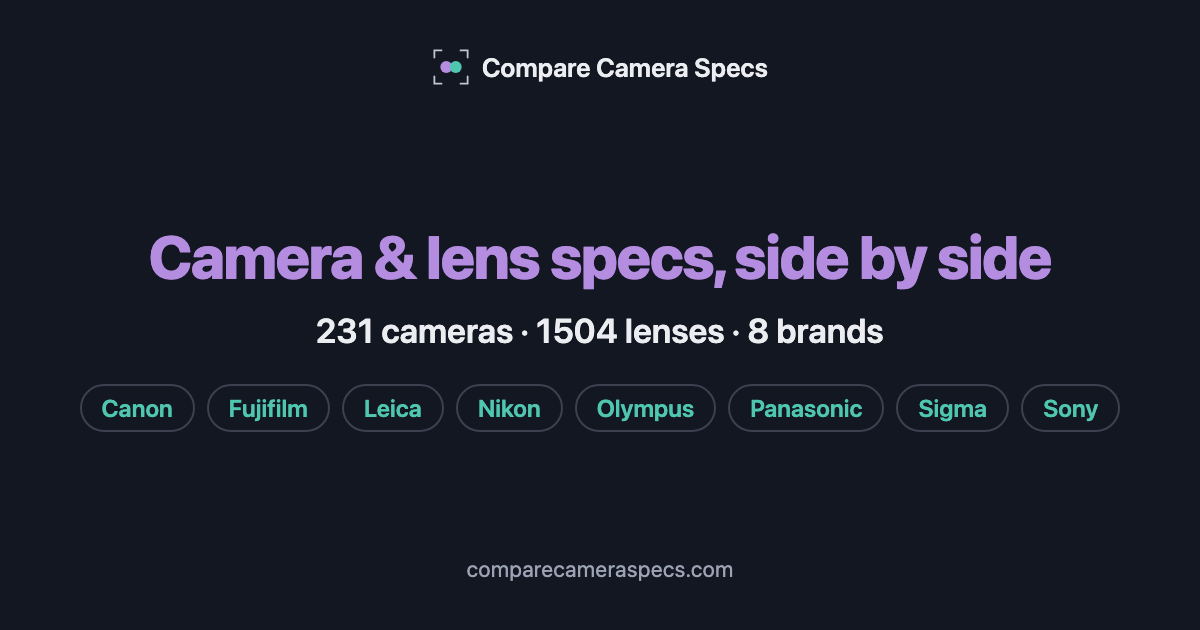
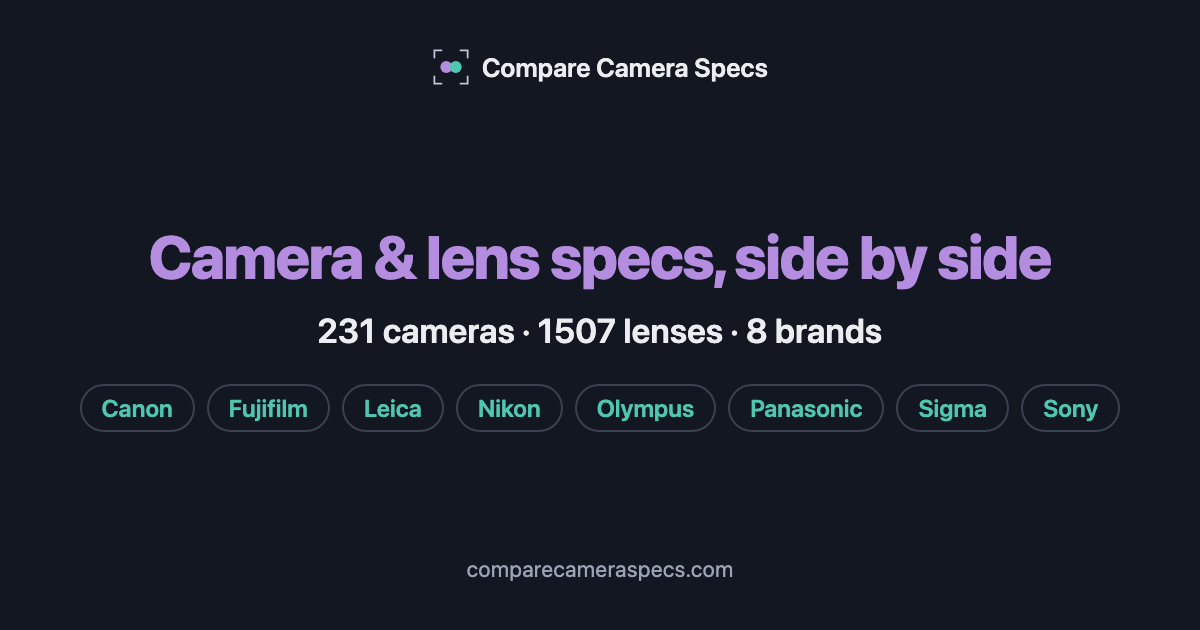
Canon: add 3 TTArtisan RF lenses; fix Fujifilm TTArtisan 7.5mm size
TTArtisan 7.5mm f/2 fisheye, 40mm f/2.8 macro and 11mm f/2.8 fisheye for
Canon RF, with RF size and weight from B&H's Canon RF listings (TTArtisan
publishes sizes only as diagrams, and its 40mm diagram omits RF). The
other six RF candidates have no RF size anywhere and are logged as
skipped.

TTArtisan's 7.5mm size diagram shows every mount is 57mm long x 72mm
wide; fujifilm/ttartisan-7-5mm-f2-fisheye had the two transposed.

Claude-Session: https://claude.ai/code/session_01FYKXhtYCHKNL3CJLW6oPDG

Changed region(s): [[0.2467, 0.4825, 0.74, 0.5429]]

diff --git a/canon/data.js b/canon/data.js
@@ -1919,6 +1919,57 @@ const LENSES = {
     productUrl:'https://ttartisan.store/products/100mm-f2-8macro',
   },
 
+  'ttartisan-7-5mm-f2-fisheye': {
+    name:'TTArtisan 7.5mm f/2 Fisheye', manufacturer:'TTArtisan', line:'Manual', type:'Prime',
+    mount:'rf', focalLength:7.5, focalLengthMin:null, focalLengthMax:null, focalLengthEquiv:'12mm',
+    maxAperture:2, minAperture:11, weight:370, length:57, diameter:72,
+    filterThread:null, minFocusDist:12.5, maxMagnification:null,
+    elements:11, groups:8, blades:7, afType:'Manual',
+    weatherSealed:false, ois:false, oisStops:null, year:2021, discontinued:false,
+    imageUrl:'https://cdn.shopify.com/s/files/1/0433/2224/5282/files/SkU-E_b90eab4a-82c0-42ad-8baa-8c99ef352fb3.jpg',
+    imageSource: { url:'https://ttartisan.store/products/aps-c-7-5mm-f2', tier:'T1', title:'TTArtisan official store', note:'first product image, lens alone; same photo as the Sony entry (TTArtisan\'s barrel is the same on every mount)', date:'2026-10-22' },
+    asin:null,
+    prices:{USD:139,AUD:null,EUR:null,GBP:null,JPY:null,CAD:null,SGD:null},
+    specSources: [{ url:'https://ttartisan.store/products/aps-c-7-5mm-f2', tier:'T1', title:'TTArtisan 7.5mm f/2 Fisheye - TTArtisan official store', note:'store page size diagram (C.png): every mount incl. RF-mount is 57mm long x 72mm wide (rear diameter 63mm on RF); f/2-11, 11/8, 7 blades', date:'2026-10-22' }, { url:'https://www.bhphotovideo.com/c/product/1793350-REG/x.html/specs', tier:'T3', title:'B&H - TTArtisan 7.5mm f/2 Fisheye (Canon RF) specs', note:'Canon RF listing: 72 x 57mm (diameter x length), 370g, 12.5cm, 11 elements in 8 groups', date:'2026-10-22' }],
+    priceSource: { url:'https://ttartisan.store/products/aps-c-7-5mm-f2', tier:'T1', title:'TTArtisan official store', note:'Canon RF / Black variant $139, no compare-at/sale price; read from the store\'s products.json; non-USD not examined', date:'2026-10-22' },
+    priceIncomplete:true,
+    productUrl:'https://ttartisan.store/products/aps-c-7-5mm-f2',
+  },
+
+  'ttartisan-40mm-f28-macro': {
+    name:'TTArtisan 40mm f/2.8 Macro', manufacturer:'TTArtisan', line:'Macro', type:'Prime',
+    mount:'rf', focalLength:40, focalLengthMin:null, focalLengthMax:null, focalLengthEquiv:'64mm',
+    maxAperture:2.8, minAperture:16, weight:371, length:76, diameter:62,
+    filterThread:52, minFocusDist:17, maxMagnification:1,
+    elements:8, groups:7, blades:11, afType:'Manual',
+    weatherSealed:false, ois:false, oisStops:null, year:2021, discontinued:false,
+    imageUrl:'https://cdn.shopify.com/s/files/1/0433/2224/5282/files/1_576e018c-2df7-4069-870e-d6bf6118a545.jpg',
+    imageSource: { url:'https://ttartisan.store/products/aps-c-40mm-f2-8-marco', tier:'T1', title:'TTArtisan official store', note:'first product image, lens alone; same photo as the Sony entry (TTArtisan\'s barrel is the same on every mount)', date:'2026-10-22' },
+    asin:null,
+    prices:{USD:114,AUD:null,EUR:null,GBP:null,JPY:null,CAD:null,SGD:null},
+    specSources: [{ url:'https://ttartisan.store/products/aps-c-40mm-f2-8-marco', tier:'T1', title:'TTArtisan 40mm f/2.8 Macro - TTArtisan official store', note:'APS-C 1:1 macro, f/2.8-16, 8/7, 11 blades, 17cm; the store\'s size diagram covers E/X/M43 (76 x 62mm) and Z (77 x 63mm) but not RF, so the RF size is B&H\'s RF listing', date:'2026-10-22' }, { url:'https://www.bhphotovideo.com/c/product/1669921-REG/x.html/specs', tier:'T3', title:'B&H - TTArtisan 40mm f/2.8 Macro (Canon RF) specs', note:'Canon RF listing (A32B-RF): 62 x 76mm (diameter x length), 371g, 8 elements in 7 groups, 52mm filter', date:'2026-10-22' }],
+    priceSource: { url:'https://ttartisan.store/products/aps-c-40mm-f2-8-marco', tier:'T1', title:'TTArtisan official store', note:'Canon RF / Black variant $114, no compare-at/sale price; read from the store\'s products.json; non-USD not examined', date:'2026-10-22' },
+    priceIncomplete:true,
+    productUrl:'https://ttartisan.store/products/aps-c-40mm-f2-8-marco',
+  },
+
+  'ttartisan-11mm-f28-fisheye': {
+    name:'TTArtisan 11mm f/2.8 Fisheye', manufacturer:'TTArtisan', line:'Fisheye', type:'Prime',
+    mount:'rf', focalLength:11, focalLengthMin:null, focalLengthMax:null, focalLengthEquiv:'11mm',
+    maxAperture:2.8, minAperture:16, weight:436, length:80, diameter:67,
+    filterThread:null, minFocusDist:17, maxMagnification:null,
+    elements:11, groups:7, blades:7, afType:'Manual',
+    weatherSealed:false, ois:false, oisStops:null, year:2022, discontinued:false,
+    imageUrl:'https://cdn.shopify.com/s/files/1/0433/2224/5282/files/L_mount_2.jpg',
+    imageSource: { url:'https://ttartisan.store/products/11mmf28', tier:'T1', title:'TTArtisan official store', note:'the L-mount product image (file L_mount_2), lens alone; same photo as the Panasonic L-Mount entry (TTArtisan\'s barrel is the same on every mount)', date:'2026-10-22' },
+    asin:null,
+    prices:{USD:235,AUD:null,EUR:null,GBP:null,JPY:null,CAD:null,SGD:null},
+    specSources: [{ url:'https://ttartisan.store/products/11mmf28', tier:'T1', title:'TTArtisan 11mm f/2.8 Fisheye - TTArtisan official store', note:'full-frame fisheye, f/2.8-16, 7 blades, 17cm; TTArtisan gives one spec table for all mounts and sizes only as diagrams, so the RF size/weight are B&H\'s RF listing (same as the L-Mount listing)', date:'2026-10-22' }, { url:'https://www.bhphotovideo.com/c/product/1562303-REG/x.html/specs', tier:'T3', title:'B&H - TTArtisan 11mm f/2.8 Fisheye (Canon RF) specs', note:'Canon RF listing (A07B): 67 x 80mm (diameter x length), 436g, 17cm', date:'2026-10-22' }],
+    priceSource: { url:'https://ttartisan.store/products/11mmf28', tier:'T1', title:'TTArtisan official store', note:'Canon RF / Black variant $235, no compare-at/sale price; read from the store\'s products.json; non-USD not examined', date:'2026-10-22' },
+    priceIncomplete:true,
+    productUrl:'https://ttartisan.store/products/11mmf28',
+  },
+
   '7artisans-9mm-f56': {
     name:'7Artisans 9mm f/5.6', manufacturer:'7Artisans', line:'Full Frame', type:'Prime',
     mount:'rf', focalLength:9, focalLengthMin:null, focalLengthMax:null, focalLengthEquiv:'9mm',
@@ -2550,7 +2601,7 @@ const LENS_DROPDOWN_GROUPS = [
   { label: '── Tamron ──',             ids: ['tamron-11-20mm-f28','tamron-17-70mm-f28','tamron-18-300mm-f35-63'] },
   { label: '── Samyang ──',            ids: ['samyang-14mm-f28','samyang-12mm-f2-rf-s'] },
   { label: '── Viltrox ──',            ids: ['viltrox-85mm-f18'] },
-  { label: '── TTArtisan ──',          ids: ['ttartisan-50mm-f14-asph','ttartisan-tilt-50mm-f14','ttartisan-500mm-f63','ttartisan-50mm-f12','ttartisan-50mm-f095','ttartisan-35mm-f14-apsc','ttartisan-23mm-f14-apsc','ttartisan-10mm-f2-asph-apsc','ttartisan-tilt-35mm-f14-apsc','ttartisan-tilt-shift-17mm-f4-asph','ttartisan-14mm-f28-asph','ttartisan-100mm-f28-2x-macro'] },
+  { label: '── TTArtisan ──',          ids: ['ttartisan-50mm-f14-asph','ttartisan-tilt-50mm-f14','ttartisan-500mm-f63','ttartisan-50mm-f12','ttartisan-50mm-f095','ttartisan-35mm-f14-apsc','ttartisan-23mm-f14-apsc','ttartisan-10mm-f2-asph-apsc','ttartisan-tilt-35mm-f14-apsc','ttartisan-tilt-shift-17mm-f4-asph','ttartisan-14mm-f28-asph','ttartisan-100mm-f28-2x-macro', 'ttartisan-7-5mm-f2-fisheye', 'ttartisan-40mm-f28-macro', 'ttartisan-11mm-f28-fisheye'] },
   { label: '── 7Artisans ──',          ids: ['7artisans-9mm-f56','7artisans-10mm-f28-ii','7artisans-35mm-f14-iii'] },
   { label: '── Laowa ──',              ids: ['laowa-15mm-f2','laowa-58mm-f28-macro','laowa-90mm-f28-macro','laowa-100mm-f28-macro','laowa-10mm-f4-cookie', 'laowa-aksen-45mm-f28', 'laowa-aksen-17-5mm-f17', 'laowa-4-5-10mm-f28-fisheye', 'laowa-17mm-f4-tilt-shift', 'laowa-35mm-f28-tilt-shift-macro', 'laowa-180mm-f45-macro', 'laowa-12mm-f28-lite-zero-d', 'laowa-8-15mm-f28-fisheye', 'laowa-15mm-f45-macro', 'laowa-55mm-f28-tilt-shift-macro', 'laowa-100mm-f28-tilt-shift-macro', 'laowa-12-24mm-f56-shift', 'laowa-10mm-f28', 'laowa-8-16mm-f35-5', 'laowa-argus-28mm-f12', 'laowa-12-24mm-f56', 'laowa-20mm-f4-shift', 'laowa-argus-45mm-f095', 'laowa-85mm-f56-2x-macro', 'laowa-argus-35mm-f095', 'laowa-argus-33mm-f095', 'laowa-15mm-f45-shift', 'laowa-14mm-f4-rl', 'laowa-11mm-f45-rl', 'laowa-65mm-f28-2x-macro', 'laowa-4mm-f28-fisheye', 'laowa-9mm-f28', 'laowa-25mm-f28-25-5x-macro', 'laowa-argus-25mm-f095'] },
   { label: '── Voigtländer ──', ids: ['voigtlander-nokton-40mm-f12', 'voigtlander-nokton-50mm-f1', 'voigtlander-nokton-75mm-f15', 'voigtlander-nokton-classic-35mm-f14', 'voigtlander-portrait-heliar-75mm-f18'] },

diff --git a/canon/index.html b/canon/index.html
@@ -5,17 +5,17 @@
   <meta name="viewport" content="width=device-width, initial-scale=1.0">
   <title>Canon EOS R Camera &amp; Lens Comparison</title>
   <!-- seo:begin (generated by scripts/generate-seo.js — do not edit by hand) -->
-  <meta name="description" content="Compare 18 Canon cameras and 128 lenses side by side — price, sensor, autofocus, stabilization and video, in 7 currencies.">
+  <meta name="description" content="Compare 18 Canon cameras and 131 lenses side by side — price, sensor, autofocus, stabilization and video, in 7 currencies.">
   <link rel="canonical" href="https://comparecameraspecs.com/canon/">
   <meta property="og:type" content="website">
   <meta property="og:site_name" content="Compare Camera Specs">
   <meta property="og:title" content="Canon Camera &amp; Lens Comparison">
-  <meta property="og:description" content="Compare 18 Canon cameras and 128 lenses side by side — price, sensor, autofocus, stabilization and video, in 7 currencies.">
+  <meta property="og:description" content="Compare 18 Canon cameras and 131 lenses side by side — price, sensor, autofocus, stabilization and video, in 7 currencies.">
   <meta property="og:url" content="https://comparecameraspecs.com/canon/">
   <meta property="og:image" content="https://comparecameraspecs.com/og/canon.png">
   <meta property="og:image:width" content="1200">
   <meta property="og:image:height" content="630">
-  <meta property="og:image:alt" content="Canon: compare 18 cameras and 128 lenses side by side">
+  <meta property="og:image:alt" content="Canon: compare 18 cameras and 131 lenses side by side">
   <meta name="twitter:card" content="summary_large_image">
   <meta name="twitter:image" content="https://comparecameraspecs.com/og/canon.png">
   <script>
@@ -63,7 +63,7 @@
   <!-- seo:body:begin (generated by scripts/generate-seo.js — do not edit by hand) -->
   <section class="seo-links" aria-label="Popular Canon comparisons">
     <h2>Popular Canon camera comparisons</h2>
-    <p>Compare all 18 Canon cameras and 128 lenses side by side — price, sensor, autofocus, stabilization and video, in seven currencies. Popular head-to-head comparisons:</p>
+    <p>Compare all 18 Canon cameras and 131 lenses side by side — price, sensor, autofocus, stabilization and video, in seven currencies. Popular head-to-head comparisons:</p>
     <ul>
       <li><a href="vs/eos-r5-ii-vs-eos-r5">Canon EOS R5 Mark II vs EOS R5</a></li>
       <li><a href="vs/eos-r6-v-vs-eos-r6-iii">Canon EOS R6 V vs EOS R6 Mark III</a></li>

diff --git a/fujifilm/data.js b/fujifilm/data.js
@@ -2446,9 +2446,10 @@ const LENSES = {
     productUrl:'https://ttartisan.store/products/aps-c-35mm-f1-4',
   },
   'ttartisan-7-5mm-f2-fisheye': {
+    // 2026-10-22: length/diameter checked against TTArtisan's size diagram (every mount 57mm long x 72mm wide; B&H's RF listing agrees: 72 x 57mm, diameter x length); was length 72 / diameter 57.
     name:'TTArtisan 7.5mm f/2 Fisheye', manufacturer:'TTArtisan', line:'Manual', type:'Prime',
     mount:'x', focalLength:7.5, focalLengthMin:null, focalLengthMax:null, focalLengthEquiv:'11mm',
-    maxAperture:2.0, minAperture:11, weight:357, length:72, diameter:57,
+    maxAperture:2.0, minAperture:11, weight:357, length:57, diameter:72,
     filterThread:null, minFocusDist:12.5, maxMagnification:0.11,
     elements:11, groups:8, blades:7, afType:'Manual',
     weatherSealed:false, ois:false, oisStops:null, year:2025, discontinued:false,
@@ -2457,7 +2458,7 @@ const LENSES = {
     asin:'B0GX1M9QWD',
     prices:{USD:139,AUD:null,EUR:null,GBP:null,JPY:null,CAD:null,SGD:null},
     priceIncomplete:true,
-    specSources: [{ url:'https://ttartisan.store/products/aps-c-7-5mm-f2', tier:'T1', note:'optical formula/weight/price/mount availability; dimensions from the page\'s size-diagram image (E/X/M43 shared panel: 57mm dia. x 72mm); year estimated from earliest customer review (12/26/2025)', date:'2026-08-16' }],
+    specSources: [{ url:'https://ttartisan.store/products/aps-c-7-5mm-f2', tier:'T1', note:'optical formula/weight/price/mount availability; dimensions from the page\'s size-diagram image (E/X/M43 panel: 57mm long x 72mm wide; re-read 2026-10-22, the original entry had the two transposed); year estimated from earliest customer review (12/26/2025)', date:'2026-08-16' }],
     priceSource: { url:'https://ttartisan.store/products/aps-c-7-5mm-f2', tier:'T1', title:'TTArtisan official store', note:'regular price $139 (Fuji X / Black variant); read from the store\'s products.json', date:'2026-10-19' },
     productUrl:'https://ttartisan.store/products/aps-c-7-5mm-f2',
   },

diff --git a/index.html b/index.html
@@ -88,7 +88,7 @@
   <meta property="og:image" content="https://comparecameraspecs.com/og/home.png">
   <meta property="og:image:width" content="1200">
   <meta property="og:image:height" content="630">
-  <meta property="og:image:alt" content="Compare 231 cameras and 1504 lenses from 8 brands side by side">
+  <meta property="og:image:alt" content="Compare 231 cameras and 1507 lenses from 8 brands side by side">
   <meta name="twitter:card" content="summary_large_image">
   <meta name="twitter:image" content="https://comparecameraspecs.com/og/home.png">
   <script>
@@ -192,7 +192,7 @@
             <div class="brand-card-body">
               <div class="brand-name">Canon</div>
               <div class="brand-mount">RF-Mount</div>
-              <div class="brand-count">18 cameras · 128 lenses</div>
+              <div class="brand-count">18 cameras · 131 lenses</div>
               <div class="brand-go">Compare &rarr;</div>
             </div>
           </a>

diff --git a/about.html b/about.html
@@ -15,7 +15,7 @@
   <meta property="og:image" content="https://comparecameraspecs.com/og/home.png">
   <meta property="og:image:width" content="1200">
   <meta property="og:image:height" content="630">
-  <meta property="og:image:alt" content="Compare 231 cameras and 1504 lenses from 8 brands side by side">
+  <meta property="og:image:alt" content="Compare 231 cameras and 1507 lenses from 8 brands side by side">
   <meta name="twitter:card" content="summary_large_image">
   <meta name="twitter:image" content="https://comparecameraspecs.com/og/home.png">
   <script>

diff --git a/privacy.html b/privacy.html
@@ -15,7 +15,7 @@
   <meta property="og:image" content="https://comparecameraspecs.com/og/home.png">
   <meta property="og:image:width" content="1200">
   <meta property="og:image:height" content="630">
-  <meta property="og:image:alt" content="Compare 231 cameras and 1504 lenses from 8 brands side by side">
+  <meta property="og:image:alt" content="Compare 231 cameras and 1507 lenses from 8 brands side by side">
   <meta name="twitter:card" content="summary_large_image">
   <meta name="twitter:image" content="https://comparecameraspecs.com/og/home.png">
   <script>

diff --git a/tests/data/links-offline.test.js b/tests/data/links-offline.test.js
@@ -213,8 +213,8 @@ const KNOWN_SHARED_LINKS = new Map([
 // third-party entries that have no asin, +29 Voigtländer VM, +9 Zeiss ZM,
 // +19 TTArtisan/7Artisans/Laowa/Thypoch M (Leica).
 // Canon missing-lens pass (add-canon-missing-thirdparty-lenses, 2026-10-22+),
-// same approach: +29 Laowa RF, +5 Voigtländer RF.
-const ASIN_GAP_BASELINE = 609;
+// same approach: +29 Laowa RF, +5 Voigtländer RF, +3 TTArtisan RF.
+const ASIN_GAP_BASELINE = 612;
 
 const allItems = () => brandDirs().flatMap(brand => {
   const { data } = loadBrand(brand);

diff --git a/openspec/changes/add-canon-missing-thirdparty-lenses/PROGRESS.md b/openspec/changes/add-canon-missing-thirdparty-lenses/PROGRESS.md
@@ -1,6 +1,6 @@
 # Progress — Canon missing third-party lenses + price consistency
 
-**Resume at:** 2.3 (TTArtisan)
+**Resume at:** 2.4 (7Artisans)
 **Branch:** csr-continue → origin canon-sony-lens-refresh (PR #78)
 **Baseline 2026-10-22:** 39 third-party Canon lenses — Sigma 11, TTArtisan 12,
 Laowa 5, Tamron 3, 7Artisans 3, Samyang 2, Yongnuo 2 (discontinued), Viltrox 1
@@ -28,12 +28,15 @@ mount, and are excluded.
 
 **2.2 done 2026-10-22 (5 Voigtländer RF lenses):** Cosina's whole RF list (Nokton 40 f/1.2, 50 f/1, 75 f/1.5, Nokton Classic 35 f/1.4, Portrait Heliar 75 f/1.8) from the RF-mount EN pages (RF housings differ from the other mounts); release years from the JP pages (発売日); USD = B&H regular for the RF listing (50mm and 75mm on sale at the time). Product shot = the "-01"/"web01" image (P00 is a sample photo), checked visually.
 
+**2.3 done 2026-10-22 (3 TTArtisan RF lenses + 1 Fujifilm fix):** 7.5mm f/2 fisheye, 40mm f/2.8 macro, 11mm f/2.8 fisheye - the only RF candidates with a B&H Canon RF listing giving size and weight; shared optics cloned from sony/ (11mm from panasonic/ L, same B&H size). USD = store RF variant (no compare-at). The 7.5mm size diagram (all mounts 57mm long x 72mm wide) showed **fujifilm/ttartisan-7-5mm-f2-fisheye had length and diameter transposed** (72/57) - fixed.
+
 ## Batches
 
 | Batch | Added | Skipped | Commit |
 |---|---|---|---|
 | 2.1 Laowa | 29 | 2 | (this commit) |
 | 2.2 Voigtländer | 5 | 0 | (this commit) |
+| 2.3 TTArtisan | 3 | 6 | (this commit) |
 
 ## Price consistency
 
@@ -46,3 +49,5 @@ Sale/compare-at ratio at read time 0.39 (7Artisans 25 f/0.95, fujifilm) to
 - Laowa ACRIS 35mm f/2.8 RF (2.1): the RF version is manual focus and Laowa gives weight/size for E, Z and EF only; B&H RF listing (2004642) has no dimensions or weight. Same skip as the L-Mount pass.
 - Laowa 15mm f/5 Cookie RF (2.1): Laowa gives E (35.2mm, 138g) and M (25mm, 104g) only; B&H RF listing (1861639) gives only box size and a 158g shipping weight.
 - Laowa 12mm f/2.8 Zero-D, Aurogon 10-50X, probes, cine lenses, kits, MSC: out of scope (DSLR-era design per owner decision; microscope objective; cine/probe/bundle).
+- TTArtisan APS-C 35mm f/0.95 and APS-C 25mm f/2 RF (2.3): no B&H Canon RF listing; TTArtisan gives weight only as a cross-mount range (247-267g, 166-189g) - same open owner question as on Nikon.
+- TTArtisan 50mm f/2, 90mm f/1.25, 21mm f/1.5, Tilt-Shift 100mm f/2.8 RF (2.3): no RF dimensions from TTArtisan or B&H (same skips as Sony/Nikon).

diff --git a/openspec/changes/add-canon-missing-thirdparty-lenses/tasks.md b/openspec/changes/add-canon-missing-thirdparty-lenses/tasks.md
@@ -6,7 +6,7 @@
 
 - [x] 2.1 Laowa
 - [x] 2.2 Voigtländer
-- [ ] 2.3 TTArtisan
+- [x] 2.3 TTArtisan
 - [ ] 2.4 7Artisans
 - [ ] 2.5 Thypoch + Samyang
 - [ ] 2.6 Meike + Yongnuo
